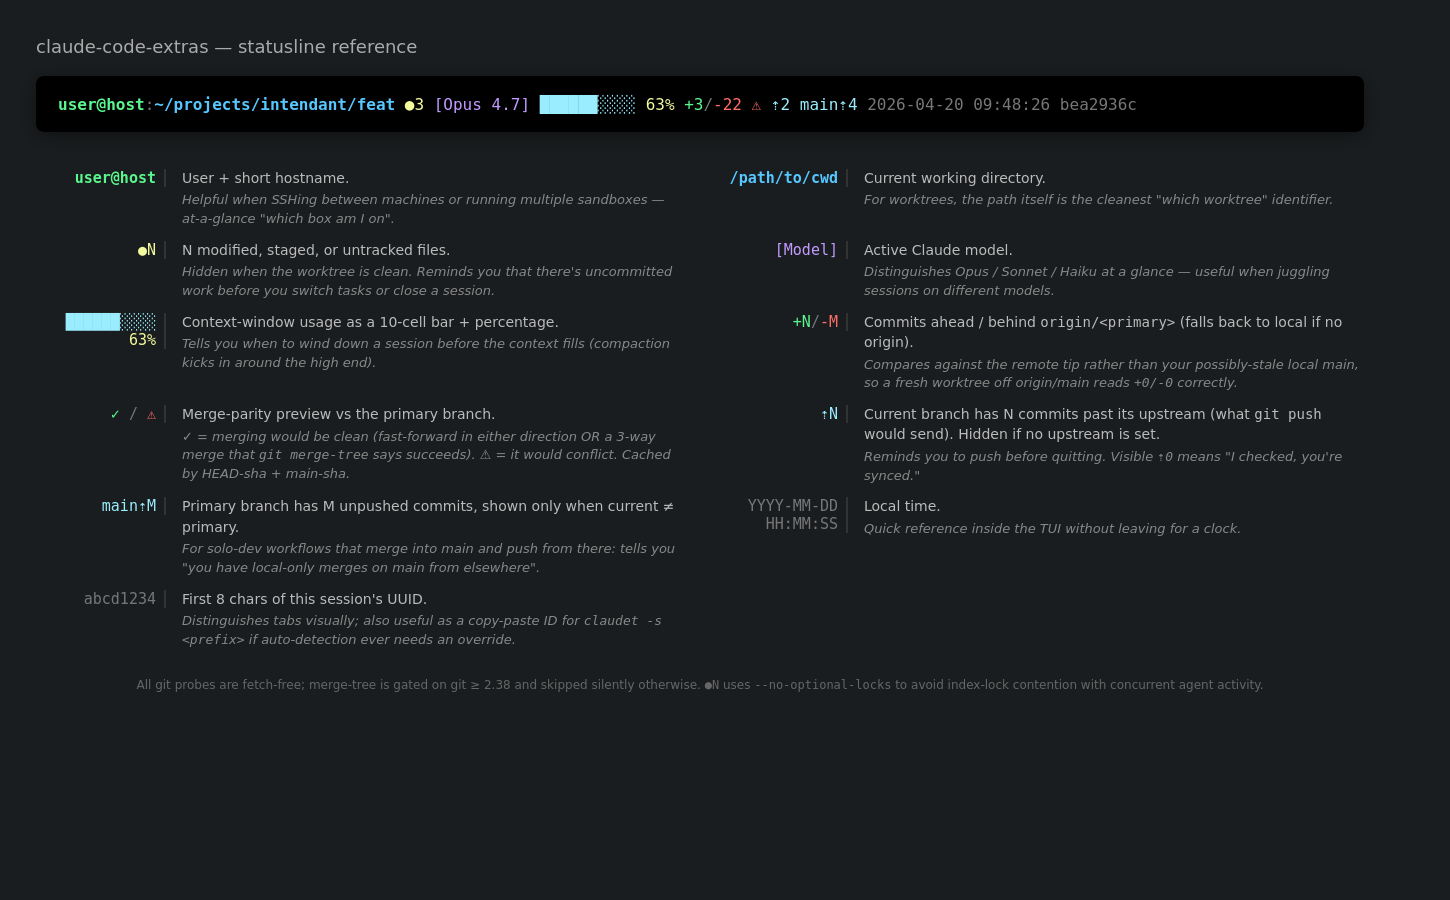
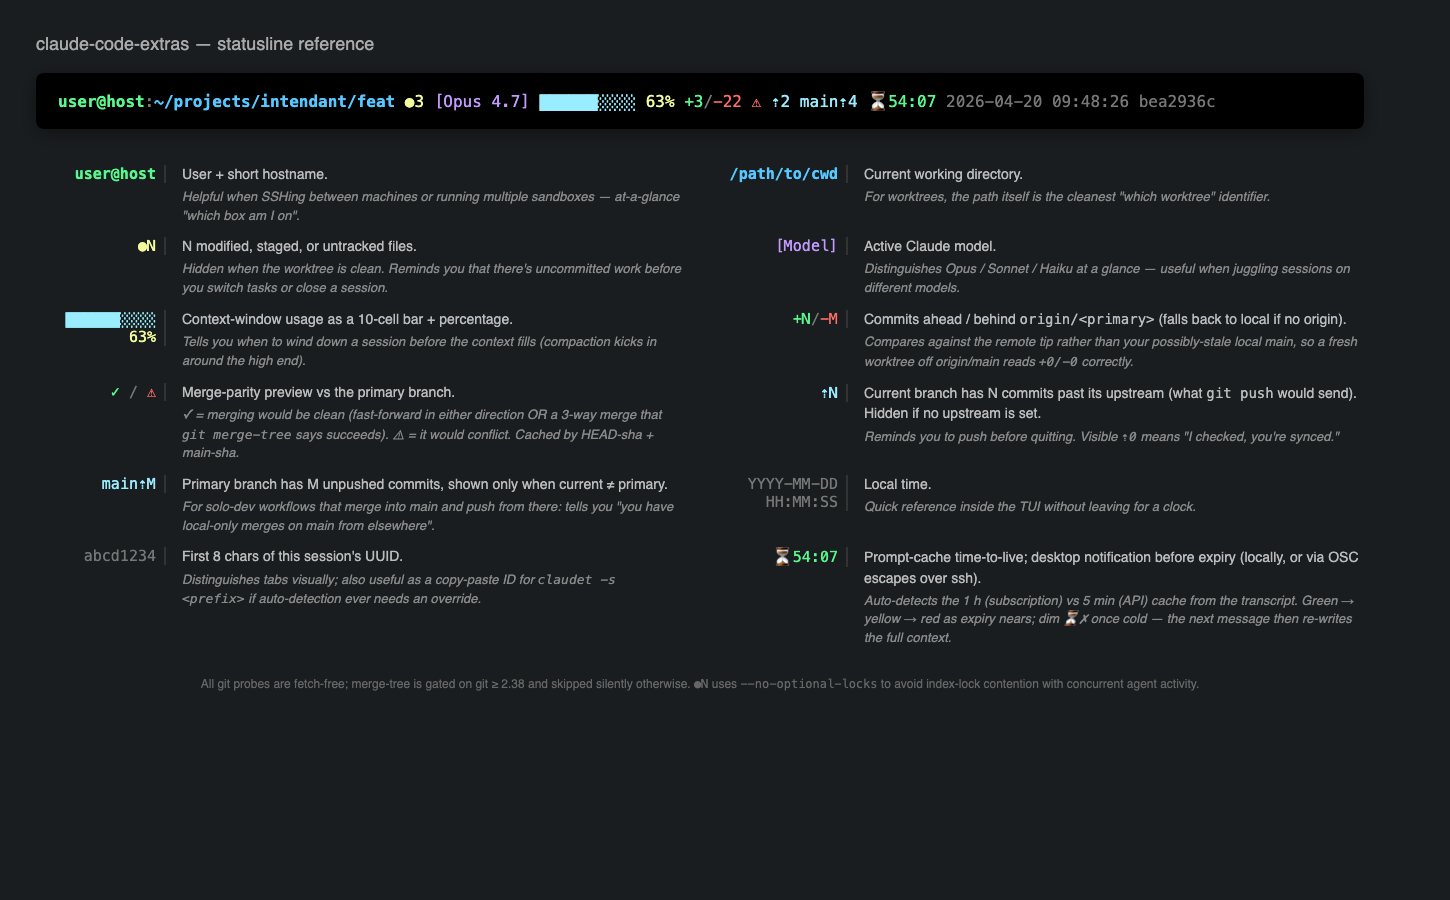
Statusline: prompt-cache TTL countdown + pre-expiry notification
⏳m:ss counts down until the prompt cache goes cold. Freshness comes
from the transcript's mtime (last API activity); the TTL is
auto-detected from the transcript's cache_creation usage entries —
ephemeral_1h (subscription plans) → 3600s, ephemeral_5m (API billing)
→ 300s. The verdict is cached per session so a huge tool result
filling the 256K tail window (e.g. an image read) can't flip the
detection mid-session. Green → yellow → red as expiry approaches;
dim ⏳✗ once cold. Ticking while idle relies on the refreshInterval
the installer already writes.

When the countdown first drops under the warn threshold (60s, or 300s
on a 1h cache), a desktop notification fires — once per idle period,
never after expiry: osascript on macOS, notify-send on Linux, and over
ssh OSC 777 + OSC 9 escapes so the *local* terminal raises the
notification with zero remote-side setup. The statusline runs with no
controlling tty (verified live: tty=??, /dev/tty ENXIO), so escapes
are written to the claude ancestor's pty — the process the session
cache already locates; direct device writes verified from live
statusline ticks across 6 concurrent sessions.

Knobs: CLAUDE_STATUSLINE_CACHE_TTL (0 hides), _CACHE_WARN (0 silences),
_NOTIFY (auto|osascript|notify-send|osc|osc777|osc9|off).

diff --git a/docs/statusline-features.html b/docs/statusline-features.html
@@ -1,4 +1,9 @@
 <!DOCTYPE html>
+<!-- Source for docs/statusline-features.png. Re-render with:
+       firefox --headless --window-size=1450,900 \
+         --screenshot=docs/statusline-features.png \
+         file://$(pwd)/docs/statusline-features.html
+-->
 <html>
 <head>
 <meta charset="utf-8">
@@ -85,7 +90,7 @@
   <h1>claude-code-extras &mdash; statusline reference</h1>
 
   <div class="terminal">
-    <span class="statusline"><span class="green-b">user@host</span><span class="dim">:</span><span class="blue">~/projects/intendant/feat</span> <span class="yellow">●3</span> <span class="magenta">[Opus 4.7]</span> <span class="cyan">██████░░░░</span> <span class="yellow">63%</span> <span class="green">+3</span><span class="dim">/</span><span class="red">-22</span> <span class="red-b">⚠</span> <span class="cyan">⇡2</span> <span class="cyan">main⇡4</span> <span class="dim">2026-04-20 09:48:26</span> <span class="dim">bea2936c</span></span>
+    <span class="statusline"><span class="green-b">user@host</span><span class="dim">:</span><span class="blue">~/projects/intendant/feat</span> <span class="yellow">●3</span> <span class="magenta">[Opus 4.7]</span> <span class="cyan">██████░░░░</span> <span class="yellow">63%</span> <span class="green">+3</span><span class="dim">/</span><span class="red">-22</span> <span class="red-b">⚠</span> <span class="cyan">⇡2</span> <span class="cyan">main⇡4</span> <span class="green">⏳54:07</span> <span class="dim">2026-04-20 09:48:26</span> <span class="dim">bea2936c</span></span>
   </div>
 
   <div class="legend">
@@ -139,8 +144,8 @@
       <div class="desc">First 8 chars of this session's UUID.<span class="when">Distinguishes tabs visually; also useful as a copy-paste ID for <code>claudet -s &lt;prefix&gt;</code> if auto-detection ever needs an override.</span></div>
     </div>
     <div class="row">
-      <div class="key"></div>
-      <div class="desc"></div>
+      <div class="key"><span class="green">⏳54:07</span></div>
+      <div class="desc">Prompt-cache time-to-live; desktop notification before expiry (locally, or via OSC escapes over ssh).<span class="when">Auto-detects the 1&nbsp;h (subscription) vs 5&nbsp;min (API) cache from the transcript. Green → yellow → red as expiry nears; dim ⏳✗ once cold — the next message then re-writes the full context.</span></div>
     </div>
   </div>
 

diff --git a/README.md b/README.md
@@ -16,9 +16,10 @@ This repo bundles:
   one, and older summaries are overwritten as new ones stream in;
 - a **statusline** that renders cwd, model, context-window usage with a
   progress bar, git ahead/behind vs. the primary branch, a **merge
-  preview** (✓ clean / ⚠ would conflict) cached by commit SHA, a clock,
-  and the first 8 chars of the session id (install is opt-out via
-  `--no-statusline`);
+  preview** (✓ clean / ⚠ would conflict) cached by commit SHA, a
+  **prompt-cache TTL countdown** (⏳54:07) with a desktop notification
+  before the cache goes cold, a clock, and the first 8 chars of the
+  session id (install is opt-out via `--no-statusline`);
 - an idempotent **`install.sh`** / **`uninstall.sh`** pair that's safe to
   run on a machine with an existing Claude Code setup.
 
@@ -44,7 +45,7 @@ claudet 5             # last 5 thinking blocks from your most recent session
 | `~/.local/bin/claudet` | python3 script: extracts thinking blocks from the latest session JSONL | whenever the wrapper is removed |
 | PATH block in your shell rc | prepends `~/.local/bin-wrap` and `~/.local/bin` | framed by sentinel markers so `uninstall.sh` can remove it cleanly |
 | `~/.cache/claude-wrapper.flag` | per-version cache of the flag probe result | auto-regenerates; safe to delete anytime |
-| `~/.claude/statusline-command.sh` *(unless `--no-statusline`)* | renders cwd, model, context-window bar, git +/- vs main, clock | remove with `./uninstall.sh`, or pass `--no-statusline` to skip on install |
+| `~/.claude/statusline-command.sh` *(unless `--no-statusline`)* | renders cwd, model, context-window bar, git +/- vs main, cache-TTL countdown, clock | remove with `./uninstall.sh`, or pass `--no-statusline` to skip on install |
 | `statusLine` block in `~/.claude/settings.json` *(unless `--no-statusline`)* | points CC at the statusline script, 2-second refresh | `uninstall.sh` only removes it if the `command` value is the one we wrote — user-customized statusLines are left alone |
 
 Nothing else under `~/.claude/` is touched.
@@ -82,6 +83,55 @@ The statusline also shows the first 8 chars of the session id at the end
 of the line, so you can visually distinguish tabs and have a reference
 for `-s` on the rare cold-start race.
 
+## Cache-TTL countdown & expiry notification
+
+Every Claude Code request keeps the conversation prefix alive in the API's
+prompt cache — for 5 minutes on API-key billing, 1 hour on subscription
+plans, refreshed on each use. While it's warm, your next message is cheaper
+and starts faster; once it lapses, the next request re-writes the whole
+context at full input cost. The statusline counts down the time the cache
+has left (⏳54:07 — green, turning yellow and then red as expiry nears; a
+dim ⏳✗ once cold) and fires a desktop notification shortly before expiry,
+so a quick message can keep the cache warm.
+
+Claude Code doesn't expose cache state, so the script infers it:
+
+- **Freshness** comes from the transcript's mtime: the session JSONL is
+  appended on every turn and goes quiet exactly when the session idles.
+  (The countdown also runs during a single long tool call — correctly so:
+  no API request is in flight then, and the cache really is decaying.)
+- **TTL** is auto-detected from the most recent nonzero
+  `ephemeral_{5m,1h}_input_tokens` cache-creation entry in the transcript
+  tail, so it tracks whatever your plan / env vars actually negotiated
+  (subscription plans get 1 h; `FORCE_PROMPT_CACHING_5M` etc. are picked
+  up automatically because detection observes what really happened).
+- The **notification** fires once per idle period (keyed by session id +
+  transcript mtime under `~/.cache/claude-statusline-ttl/`), and only
+  while there's still time to act — never after the fact. macOS uses
+  `osascript` (the notification is attributed to Script Editor; allow it
+  if macOS asks on first use), Linux uses `notify-send` if installed.
+- **Over ssh** it works with zero extra setup: when `SSH_TTY` /
+  `SSH_CONNECTION` are set, the script instead writes OSC 777 + OSC 9
+  escape sequences to the claude process's terminal device (found by
+  walking the process tree — the statusline itself is spawned without a
+  controlling tty). The escape rides the pty byte stream back to your
+  **local** terminal emulator, and *it* raises the desktop
+  notification. kitty, WezTerm, Ghostty, foot and urxvt speak OSC 777;
+  iTerm2 speaks OSC 9; Apple Terminal speaks neither. Terminals that
+  speak both dialects may notify twice on `osc` — pin `osc777` or `osc9`
+  via `CLAUDE_STATUSLINE_NOTIFY`. Inside tmux the escape is
+  passthrough-wrapped, which needs `set -g allow-passthrough on`
+  (tmux ≥ 3.3).
+- Ticking while idle relies on the `statusLine.refreshInterval` the
+  installer writes (2 s); without it the statusline only re-runs on
+  message events and the countdown would go stale between them.
+
+| Env var | Effect |
+|---|---|
+| `CLAUDE_STATUSLINE_CACHE_TTL` | Cache TTL in seconds, overriding auto-detection; `0` hides the segment. |
+| `CLAUDE_STATUSLINE_CACHE_WARN` | Warn threshold in seconds — at or below it the countdown turns yellow (red under half of it) and the notification fires; `0` disables the notification. Default 60, or 300 when the detected TTL is 1 h. |
+| `CLAUDE_STATUSLINE_NOTIFY` | Delivery method: `auto` (default), `osascript`, `notify-send`, `osc` (both escape dialects), `osc777`, `osc9`, or `off`. `auto` picks `osc` when the session is remote (ssh), otherwise the first available local mechanism. |
+
 ## Installer behavior
 
 - **Idempotent.** Re-running the installer on a machine that's already set
@@ -110,6 +160,12 @@ is removed. `~/.local/bin-wrap/` is removed only if it's empty.
 - python3 (for `claudet`)
 - `readlink -f` (present on Linux, and on macOS 12.3+)
 - jq (used by the statusline; pre-installed on macOS, `apt install jq` on Debian/Ubuntu)
+- desktop notifications for the cache-TTL warning use `osascript` (built
+  into macOS) or `notify-send` (Linux; `apt install libnotify-bin`); over
+  ssh they use OSC escape sequences instead, which need a supporting
+  *local* terminal (kitty / WezTerm / Ghostty / foot / urxvt / iTerm2 —
+  not Apple Terminal). If nothing suitable is present, the countdown
+  still renders and only the notification is skipped.
 - **git ≥ 2.38** for the statusline's merge-preview indicator (`⚠` / `✓`).
   Older git silently skips the feature and shows just `+N/-M`. Debian 12
   and macOS Ventura (13) and later ship a new-enough git; Debian 11 does
